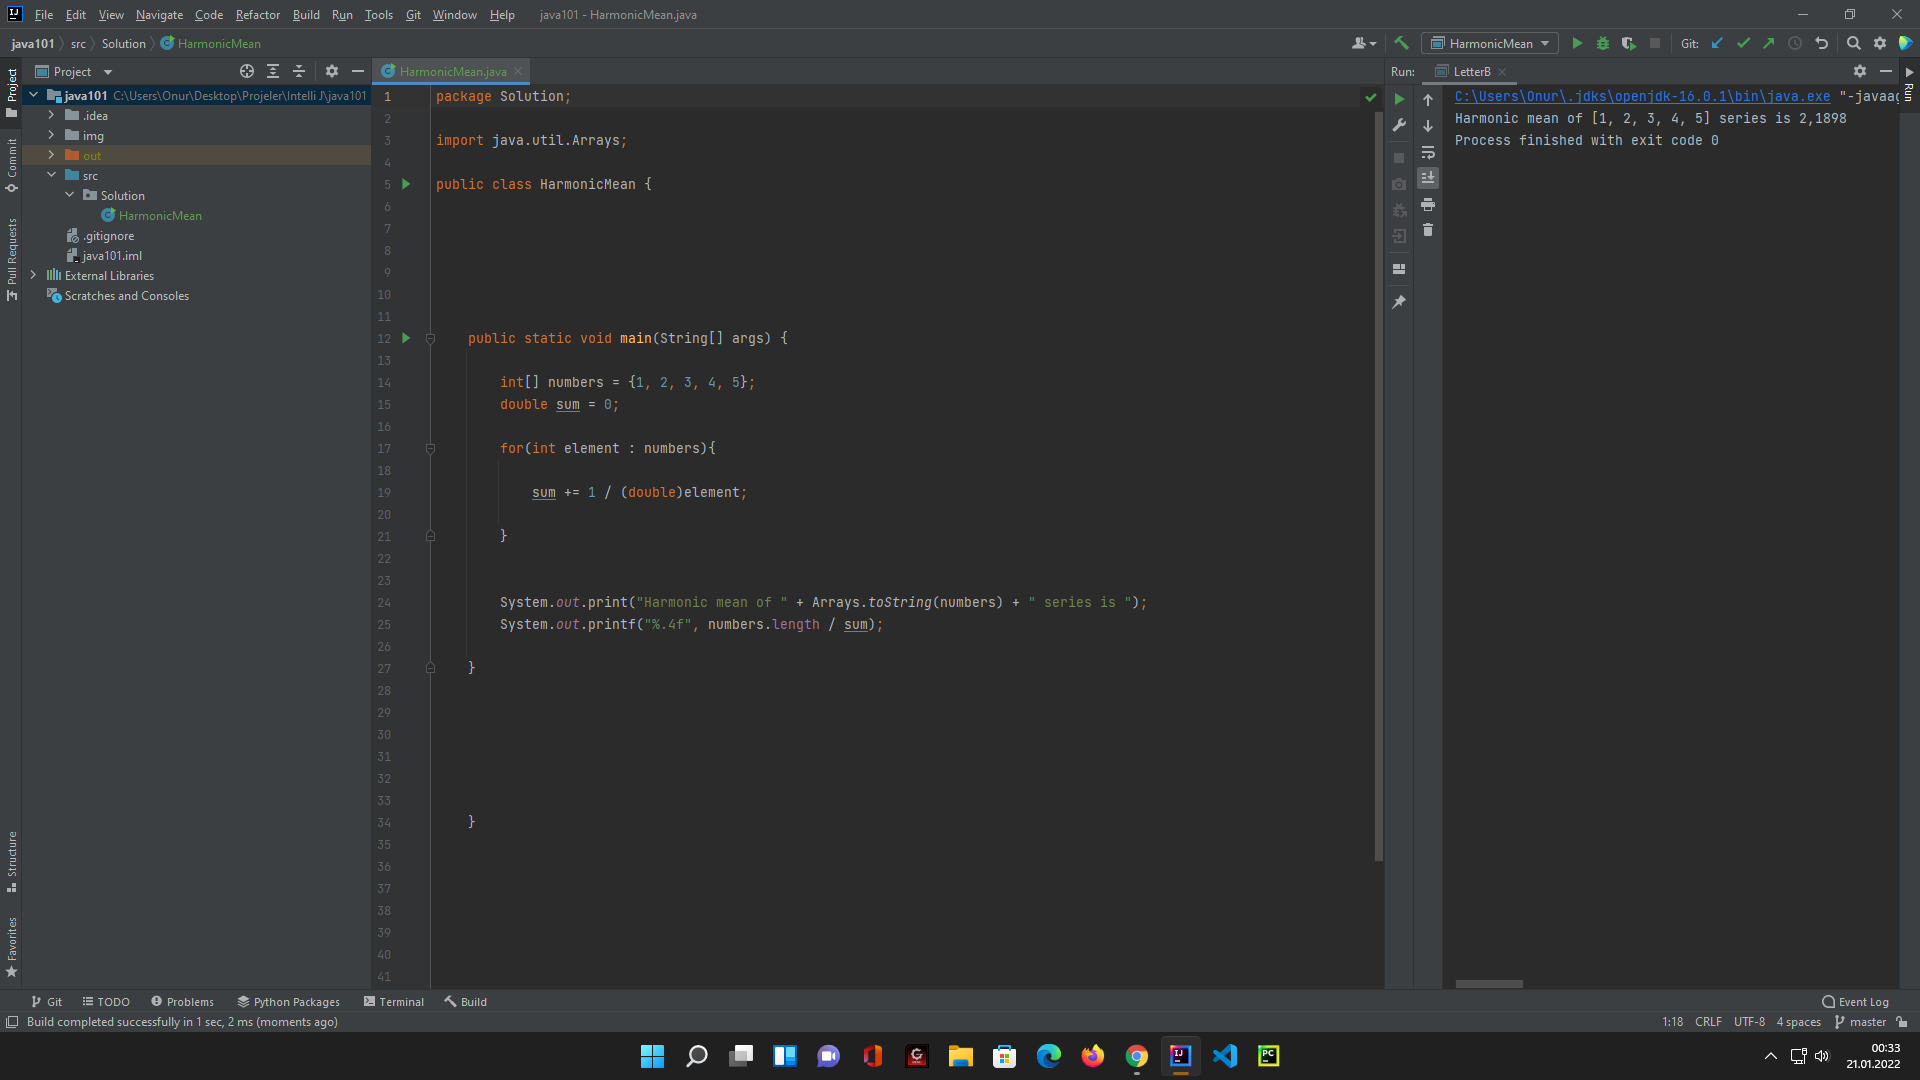
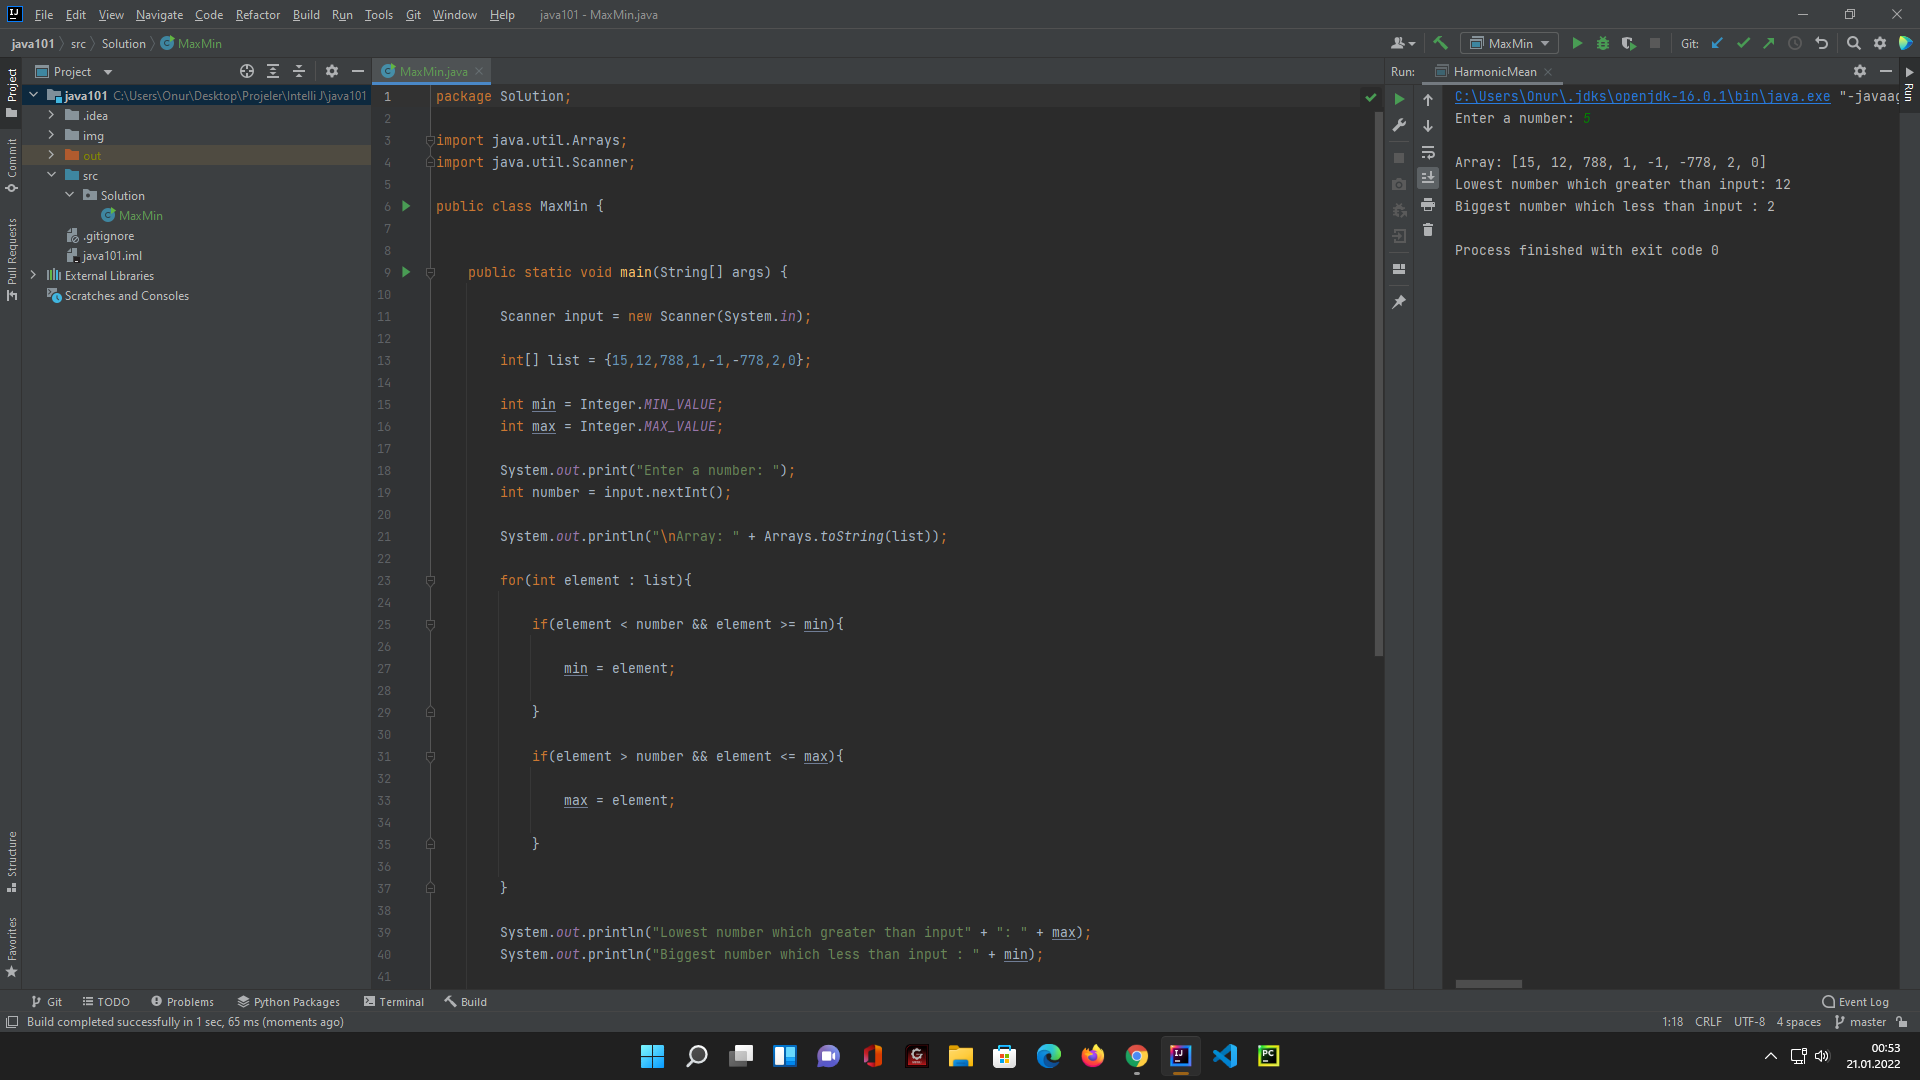
last

diff --git a/src/Solution/MaxMin.java b/src/Solution/MaxMin.java
@@ -1,0 +1,60 @@
+package Solution;
+
+import java.util.Arrays;
+import java.util.Scanner;
+
+public class MaxMin {
+
+
+    public static void main(String[] args) {
+
+        Scanner input = new Scanner(System.in);
+
+        int[] list = {15,12,788,1,-1,-778,2,0};
+
+        int min = Integer.MIN_VALUE;
+        int max = Integer.MAX_VALUE;
+
+        System.out.print("Enter a number: ");
+        int number = input.nextInt();
+
+        System.out.println("\nArray: " + Arrays.toString(list));
+
+        for(int element : list){
+
+            if(element < number && element >= min){
+
+                min = element;
+
+            }
+
+            if(element > number && element <= max){
+
+                max = element;
+
+            }
+
+        }
+
+        System.out.println("Lowest number which greater than input" + ": " + max);
+        System.out.println("Biggest number which less than input : " + min);
+
+
+
+
+    }
+
+
+
+
+
+
+    }
+
+
+
+
+
+
+
+
